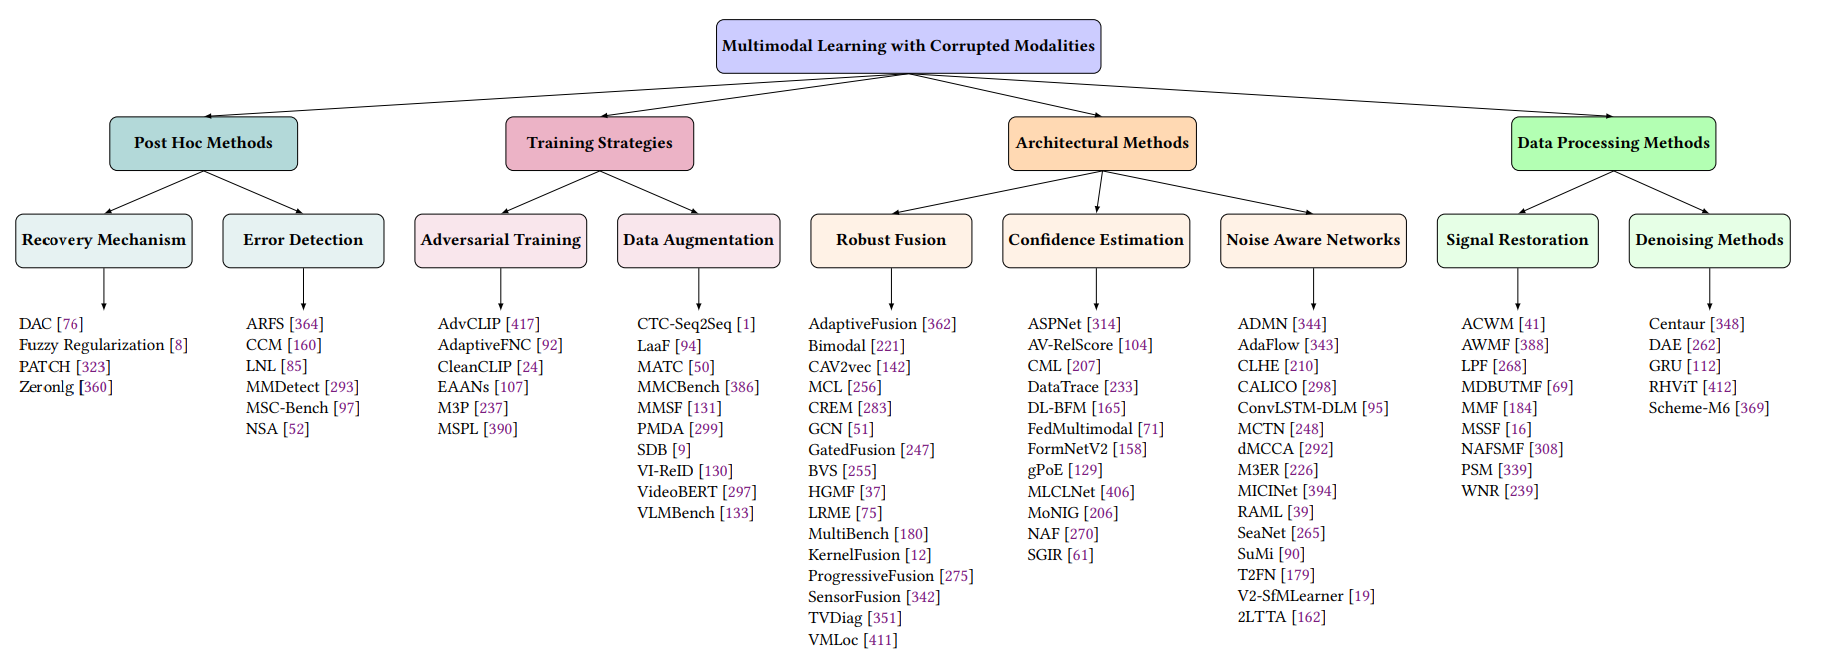
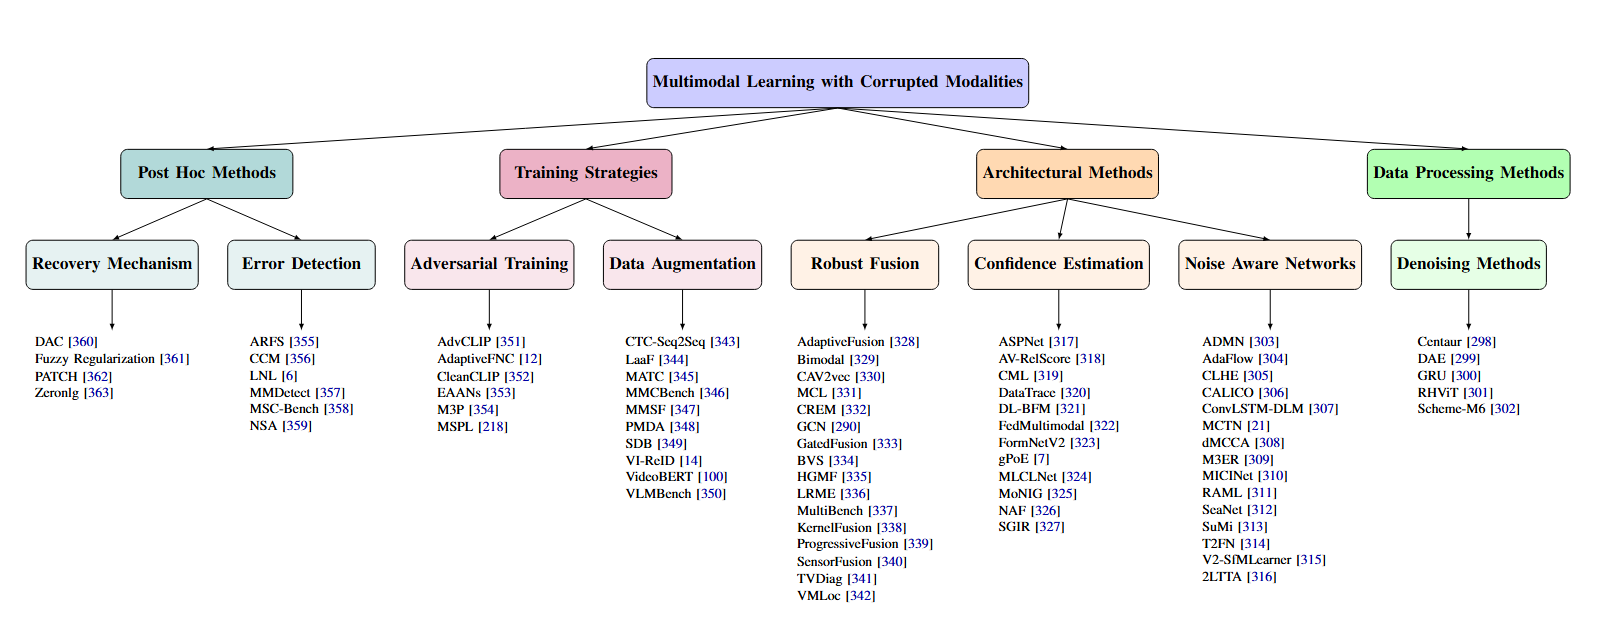
update README.md

Changed region(s): [[0.0, 0.0306, 1.0, 1.0]]

diff --git a/README.md b/README.md
@@ -38,7 +38,7 @@ We strongly encourage the contributors/researchers to contribute to the research
   - [Multimodal Learning with Corrupted Modalities](#multimodal-learning-with-corrupted-modalities-back-to-top)
     - [2.1 Data Processing Methods](#21-data-processing-methods-back-to-top)
       - [2.1.1 Denoising Methods](#211-denoising-methods-back-to-top)
-      - [2.1.2 Signal Restoration Methods](#212-signal-restoration-methods-back-to-top)
+      <!-- - [2.1.2 Signal Restoration Methods](#212-signal-restoration-methods-back-to-top) -->
     - [2.2 Architectural Methods](#22-architectural-methods)
       - [2.2.1 Noise Aware Networks](#221-noise-aware-networks-back-to-top)
       - [2.2.2 Confidence Estimation](#222-confidence-estimation-back-to-top)
@@ -275,13 +275,13 @@ We strongly encourage the contributors/researchers to contribute to the research
 | 2018 | Highly Accurate Image Reconstruction For Multimodal Noise Suppression Using Semisupervised Learning On Big Data | [📄](https://ieeexplore.ieee.org/document/8327853) | [💻](https://github.com/bigmms/semisupervised-learning-denoising) |
 | 2014 | Multimodal Learning For Autonomous Underwater Vehicles From Visual And Bathymetric Data | [📄](https://www.researchgate.net/publication/286680050_Multimodal_learning_for_autonomous_underwater_vehicles_from_visual_and_bathymetric_data) | - |
 
-### 2.1.2 Signal Restoration Methods [Back to Top](#table-of-contents)
+<!-- ### 2.1.2 Signal Restoration Methods [Back to Top](#table-of-contents)
 | Year | Title | Paper Link | Code Link |
 |------|-------|------------|-----------|
 | 2019 | Impulse Noise Reduction In Audio Signal Through Multi-Stage Technique | [📄](https://doi.org/10.1016/j.jestch.2018.10.008) | - |
 | 2017 | Audio Noise Reduction Using Low Pass Filters | [📄](https://doi.org/10.4236/oalib.1103709) | - |
 | 2016 | A Morphological Mean Filter For Impulse Noise Removal | [📄](https://ieeexplore.ieee.org/document/7293089) | - |
-| 2014 | A New Adaptive Weighted Mean Filter For Removing Salt-And-Pepper Noise | [📄](http://azadproject.ir/wp-content/uploads/2014/12/2014-A-New-Adaptive-Weighted-Mean-Filter-for-Removing-Salt-and-Pepper-Noise.pdf) | [💻](https://github.com/phogomes/noise_removal) |
+| 2014 | A New Adaptive Weighted Mean Filter For Removing Salt-And-Pepper Noise | [📄](http://azadproject.ir/wp-content/uploads/2014/12/2014-A-New-Adaptive-Weighted-Mean-Filter-for-Removing-Salt-and-Pepper-Noise.pdf) | [💻](https://github.com/phogomes/noise_removal) | -->
 
 ### 2.2 Architectural Methods
 ### 2.2.1 Noise Aware Networks [Back to Top](#table-of-contents)
